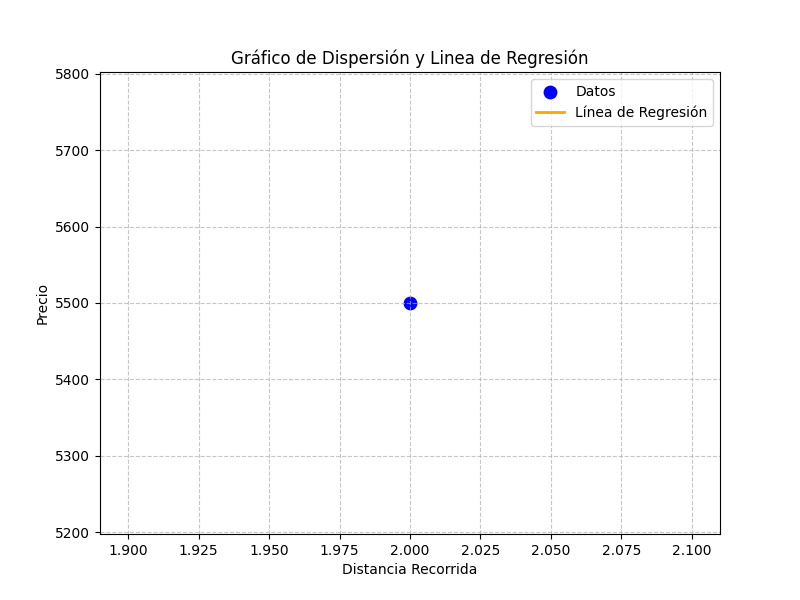
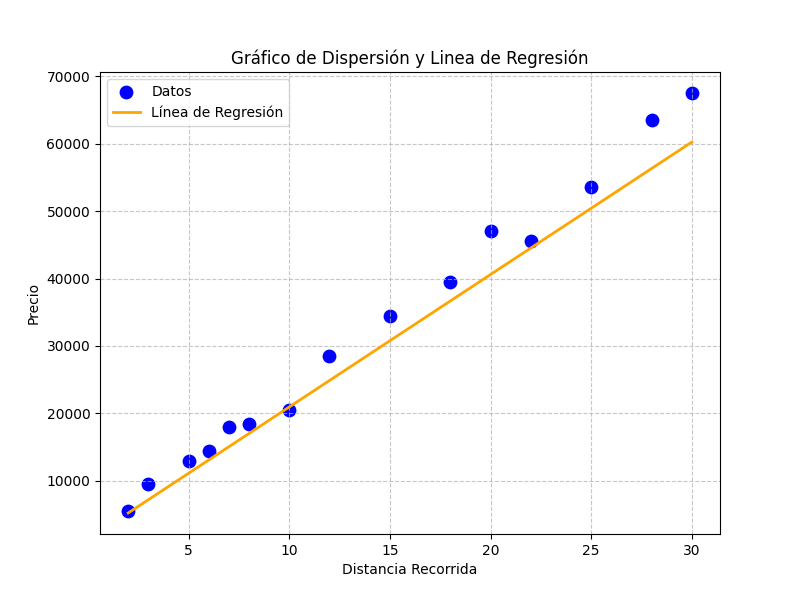
añadidos la actualizacion de formulario para agregar datos
el forulario para ingresar datos nuevos ha sido creado, los submenus se agregaron a cada uno de los templates.
se arreglo cierto problema con la importacion de librerias en el app.py.
el front end de LR ha sido modificado, el color de las fuentes cambiadas, el logo del proyecto se mantiene en el fondo y el diseño concuerda con el ejecutado en los conceptos basicos(teoricos)

diff --git a/templates/rl.html b/templates/rl.html
@@ -1,6 +1,7 @@
 <!DOCTYPE html>
 <html lang="en">
 <head>
+  <!-------------------------------------- HEAD -------------------------------------->
   <meta charset="UTF-8" />
   <meta name="viewport" content="width=device-width, initial-scale=1.0" />
   <title>Regresión Lineal</title>
@@ -15,7 +16,7 @@
 </head>
 <body class="bgH1">
 
-
+  <!-------------------------------------- NAVBAR -------------------------------------->
   <nav class="navbar navbar-expand-lg bg-dark navbar-dark">
     <div class="container-fluid">
       <button 
@@ -51,7 +52,14 @@
                   <li><a class="dropdown-item" href="/casoDos">Segundo Caso</a></li>
                   <li><a class="dropdown-item" href="/casoTres">Tercer Caso</a></li>
                   <li><a class="dropdown-item" href="/casoCuatro">Cuarto Caso</a></li>
-                  <li><a class="dropdown-item" href="/grafico">Gráfico de Dispersión</a></li>
+                </ul>
+              </li>
+              <!-- Submenú Regresión Lineal -->
+              <li class="dropdown-submenu">
+                <a class="dropdown-item dropdown-toggle" href="#">Regresión Lineal</a>
+                <ul class="dropdown-menu">
+                  <li><a class="dropdown-item" href="/regresionConceptos">Conceptos básicos</a></li>
+                  <li><a class="dropdown-item" href="/LR">Ejercicio práctico</a></li>
                 </ul>
               </li>
             </ul>
@@ -60,46 +68,74 @@
       </div>
     </div>
   </nav>
-
-
   <div class="container my-5">
     <h1 class="text-center">Regresión Lineal</h1>
+    <div class="accordion my-4" id="accordionExample">
 
-    <form method="post" action="/LR" class="text-center my-4">
-      <label for="distancia" class="me-2 text-light">Distancia (KM)</label>
-      <input type="number" name="distancia" required class="me-3">
+      <!-------------------------------------- BLOQUE PREDICCIÓN -------------------------------------->
+      <div class="accordion-item">
+        <h2 class="accordion-header" id="headingOne">
+          <button class="accordion-button" type="button" data-bs-toggle="collapse" data-bs-target="#collapseOne">
+            Predicción
+          </button>
+        </h2>
+        <div id="collapseOne" class="accordion-collapse collapse show" data-bs-parent="#accordionExample">
+          <div class="accordion-body text-center">
+            <form method="post" action="/LR" class="text-center my-4">
+                  <label for="distancia" class="me-2 text-dark">Distancia (KM)</label>
+                  <input type="number" name="distancia" required="" class="me-3">
 
-      <label for="pasajeros" class="me-2 text-light">Pasajeros</label>
-      <input type="number" name="pasajeros" required class="me-3">
+                  <label for="pasajeros" class="me-2 text-dark">Pasajeros</label>
+                  <input type="number" name="pasajeros" required="" class="me-3">
 
-      <button type="submit" class="btn btn-primary">Predecir</button>
-    </form>
+                  <button type="submit" class="btn btn-primary">Predecir</button>
+                </form>
+            {% if result is not none %}
+              <div class="text-center">
+                <h2 class="text-dark">Precio estimado: {{ result }}</h2>
+              </div>
+            {% endif %}
+          </div>
+        </div>
+      </div>
 
-
-    {% if result is not none %}
-      <div class="text-center">
-        <h2 class="text-light">Precio estimado: {{ result }}</h2>
+      <!-------------------------------------- BLOQUE ADICIÓN DE DATOS -------------------------------------->
+      <div class="accordion-item">
+        <h2 class="accordion-header" id="headingTwo">
+          <button class="accordion-button collapsed" type="button" data-bs-toggle="collapse" data-bs-target="#collapseTwo">
+            Adición de Datos
+          </button>
+        </h2>
+        <div id="collapseTwo" class="accordion-collapse collapse" data-bs-parent="#accordionExample">
+          <div class="accordion-body text-center">
+            <form method="post" action="/LR" class="text-center my-4">
+              <label for="distancia" class="me-2 text-dark">Distancia (KM)</label>
+              <input type="number" name="distancia" required class="me-3">
+              <label for="pasajeros" class="me-2 text-dark">Pasajeros</label>
+              <input type="number" name="pasajeros" required class="me-3">
+              <label for="precio" class="me-2 text-dark">Precio</label>
+              <input type="number" name="precio" required class="me-3">
+              <button type="submit" class="btn btn-success">Actualizar</button>
+            </form>
+            {% if message %}
+              <div class="alert alert-info text-center">{{ message }}</div>
+            {% endif %}
+          </div>
+        </div>
+      </div>
+    </div>
+    {% if graph_url %}
+      <div class="text-center my-5">
+        <h3 class="text-light">Gráfico de Dispersión</h3>
+        <img src="{{ graph_url }}" alt="Gráfico de Dispersión" class="img-fluid rounded shadow my-3">
       </div>
     {% endif %}
-
-
-    {% if graph_url %}
-    <div class="text-center my-5">
-      <h3 class="text-light">Gráfico de Dispersión</h3>
-      <img src="{{ graph_url }}" alt="Gráfico de Dispersión" class="img-fluid rounded shadow my-3">
-     
-    </div>
-    {% endif %}
   </div>
-
-
   <script 
     src="https://cdn.jsdelivr.net/npm/bootstrap@5.3.3/dist/js/bootstrap.bundle.min.js" 
     integrity="sha384-YvpcrYf0tY3lHB60NNkmXc5s9fDVZLESaAA55NDzOxhy9GkcIdslK1eN7N6jIeHz" 
     crossorigin="anonymous">
   </script>
-
-
   <style>
     h1, h2, h3 {
       color: #fff;

diff --git a/templates/casodos.html b/templates/casodos.html
@@ -119,6 +119,14 @@
                   <li><a class="dropdown-item" href="/casoCuatro">Cuarto Caso</a></li>
                 </ul>
               </li>
+              <!-- Submenú Regresión Lineal -->
+              <li class="dropdown-submenu">
+                <a class="dropdown-item dropdown-toggle" href="#">Regresión Lineal</a>
+                <ul class="dropdown-menu">
+                  <li><a class="dropdown-item" href="/regresionConceptos">Conceptos básicos</a></li>
+                  <li><a class="dropdown-item" href="/LR">Ejercicio práctico</a></li>
+                </ul>
+              </li>
             </ul>
           </li>
           <li class="nav-item">

diff --git a/templates/casoCuatro.html b/templates/casoCuatro.html
@@ -50,6 +50,14 @@
                   <li><a class="dropdown-item" href="/casoCuatro">Cuarto Caso</a></li>
                 </ul>
               </li>
+              <!-- Submenú Regresión Lineal -->
+              <li class="dropdown-submenu">
+                <a class="dropdown-item dropdown-toggle" href="#">Regresión Lineal</a>
+                <ul class="dropdown-menu">
+                  <li><a class="dropdown-item" href="/regresionConceptos">Conceptos básicos</a></li>
+                  <li><a class="dropdown-item" href="/LR">Ejercicio práctico</a></li>
+                </ul>
+              </li>
             </ul>
           </li>
           <li class="nav-item">

diff --git a/templates/casoTres.html b/templates/casoTres.html
@@ -88,6 +88,14 @@
                   <li><a class="dropdown-item" href="/casoCuatro">Cuarto Caso</a></li>
                 </ul>
               </li>
+              <!-- Submenú Regresión Lineal -->
+              <li class="dropdown-submenu">
+                <a class="dropdown-item dropdown-toggle" href="#">Regresión Lineal</a>
+                <ul class="dropdown-menu">
+                  <li><a class="dropdown-item" href="/regresionConceptos">Conceptos básicos</a></li>
+                  <li><a class="dropdown-item" href="/LR">Ejercicio práctico</a></li>
+                </ul>
+              </li>
             </ul>
           </li>
           <li class="nav-item">

diff --git a/templates/casoUno.html b/templates/casoUno.html
@@ -51,6 +51,14 @@
                   <li><a class="dropdown-item" href="/casoCuatro">Cuarto Caso</a></li>
                 </ul>
               </li>
+              <!-- Submenú Regresión Lineal -->
+              <li class="dropdown-submenu">
+                <a class="dropdown-item dropdown-toggle" href="#">Regresión Lineal</a>
+                <ul class="dropdown-menu">
+                  <li><a class="dropdown-item" href="/regresionConceptos">Conceptos básicos</a></li>
+                  <li><a class="dropdown-item" href="/LR">Ejercicio práctico</a></li>
+                </ul>
+              </li>
             </ul>
           </li>
           <li class="nav-item">

diff --git a/app.py b/app.py
@@ -1,4 +1,9 @@
 from flask import Flask, render_template, request, url_for
+###########################################3
+##agregé estas dos para que funcione la actualizacion de los datos
+import matplotlib
+matplotlib.use('Agg')
+##########################################
 import matplotlib.pyplot as plt
 import numpy as np
 import os
@@ -42,47 +47,41 @@ def regresionConceptos():
 @app.route('/LR', methods=["GET", "POST"])
 def LR():
     df = LRModel.df  
-
-   
     media = df["Precio"].mean()
     mediana = df["Precio"].median()
-
-
+##estos son variables para guardar resultados, se inician en cero
     calculateResult = None
     distancia = None
     pasajeros = None
-
- 
+    message = None 
+##si los datos vienen con precio eso quiere decir que es actualizar. (UpdateData)
+##si no viene con precio quiere decir que es calcular (calculateGrade)
     if request.method == "POST":
-        distancia = float(request.form["distancia"])
-        pasajeros = float(request.form["pasajeros"])
-        calculateResult = CalculateGrade(distancia, pasajeros)
-
+        if "precio" in request.form:
+            distancia = float(request.form["distancia"])
+            pasajeros = float(request.form["pasajeros"])
+            precio = float(request.form["precio"])
+            message = LRModel.UpdateData(distancia, pasajeros, precio)
+        else:
+            distancia = float(request.form["distancia"])
+            pasajeros = float(request.form["pasajeros"])
+            calculateResult = CalculateGrade(distancia, pasajeros)
 
     image_path = os.path.join('static', 'images')
     if not os.path.exists(image_path):
         os.makedirs(image_path)
 
     plt.figure(figsize=(8, 6))
-    
-  
     plt.scatter(df["Distancia Recorrida"], df["Precio"], color='blue', s=80, label='Datos')
-
-
     x_vals = np.linspace(df["Distancia Recorrida"].min(), df["Distancia Recorrida"].max(), 100)
-    
-   
     y_vals = [CalculateGrade(x, 1) for x in x_vals]  
     plt.plot(x_vals, y_vals, color='orange', linewidth=2, label='Línea de Regresión')
-
-    
 
     plt.title('Gráfico de Dispersión y Linea de Regresión')
     plt.xlabel('Distancia Recorrida')
     plt.ylabel('Precio')
     plt.legend()
     plt.grid(True, linestyle='--', alpha=0.7)
-
 
     graph_file = os.path.join(image_path, 'grafico.png')
     plt.savefig(graph_file)
@@ -93,5 +92,6 @@ def LR():
         result=calculateResult,
         graph_url=url_for('static', filename='images/grafico.png'),
         media=media,
-        mediana=mediana
+        mediana=mediana,
+        message=message  
     )

diff --git a/LRModel.py b/LRModel.py
@@ -3,13 +3,14 @@ import pandas as pd
 from sklearn.linear_model import LinearRegression
 
 app = Flask(__name__)
-
+##################no encontre la forma de hacer que los datos se agregen en estos espacios directamente#######
+###########asi que la básicamente los datos son los mismos siempre cuando se inicia el debug############
+############sinembargo por lo visto la tabla si actualiza los datos cuando mantenemos el debug#########3
 data = {
-    "Distancia Recorrida": [2],
-    "Pasajeros": [1],
-    "Precio": [5500]
+    "Distancia Recorrida": [2, 5, 7, 10, 3, 8, 12, 15, 6, 20, 18, 25, 30, 22, 28],
+    "Pasajeros": [1, 2, 3, 1, 4, 2, 5, 3, 2, 6, 4, 5, 7, 3, 6],
+    "Precio": [5500, 13000, 18000, 20500, 9500, 18500, 28500, 34500, 14500, 47000, 39500, 53500, 67500, 45500, 63500]
 }
-
 df = pd.DataFrame(data)
 x = df[["Distancia Recorrida","Pasajeros"]]
 y = df["Precio"]
@@ -18,3 +19,18 @@ model.fit(x, y)
 def CalculateGrade(distancia,pasajeros):
     result = model.predict([[distancia,pasajeros]])[0]
     return round(result)
+##esto es para actualizar el modelo de datos##
+def UpdateData(distancia, pasajeros, precio):
+    global df, model
+    new_row = pd.DataFrame({
+        "Distancia Recorrida": [distancia],
+        "Pasajeros": [pasajeros],
+        "Precio": [precio]
+    })
+
+    df = pd.concat([df, new_row], ignore_index=True)
+    x = df[["Distancia Recorrida", "Pasajeros"]]
+    y = df["Precio"]
+    model = LinearRegression()
+    model.fit(x, y)
+    return "Datos actualizados"
